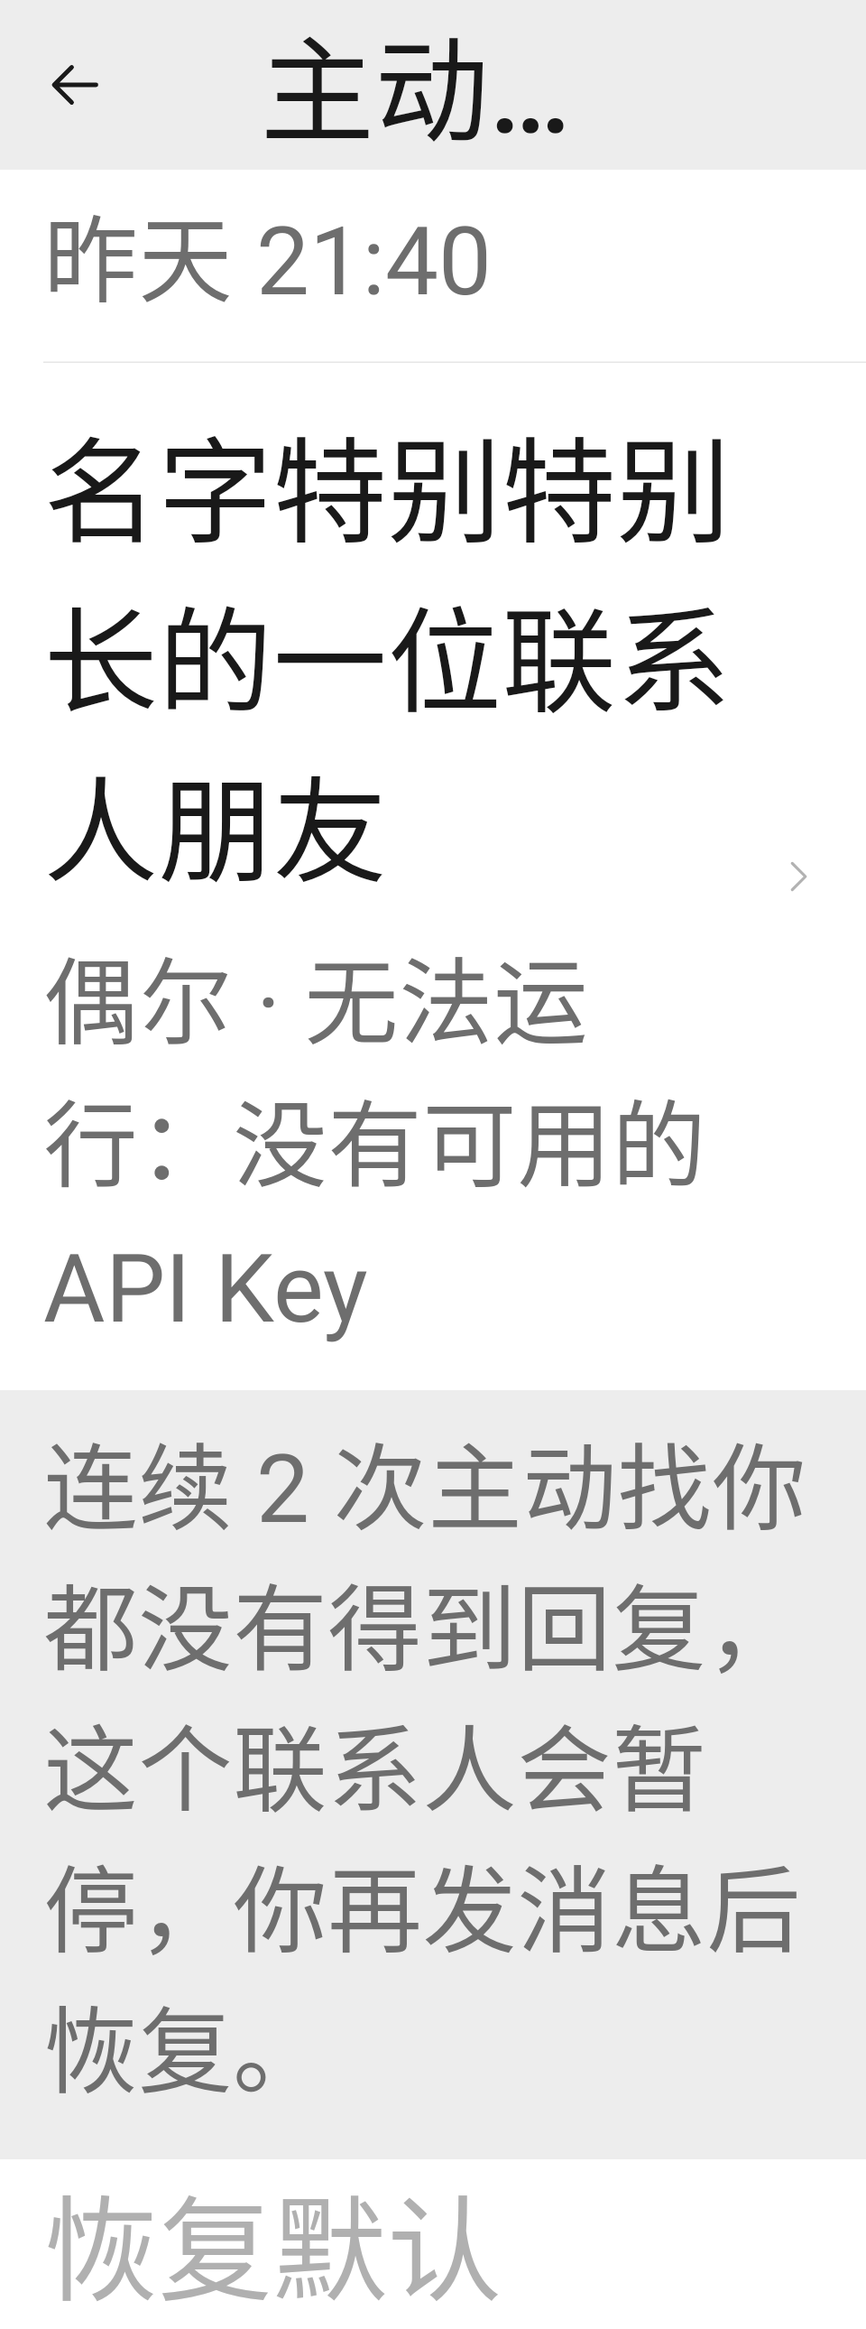
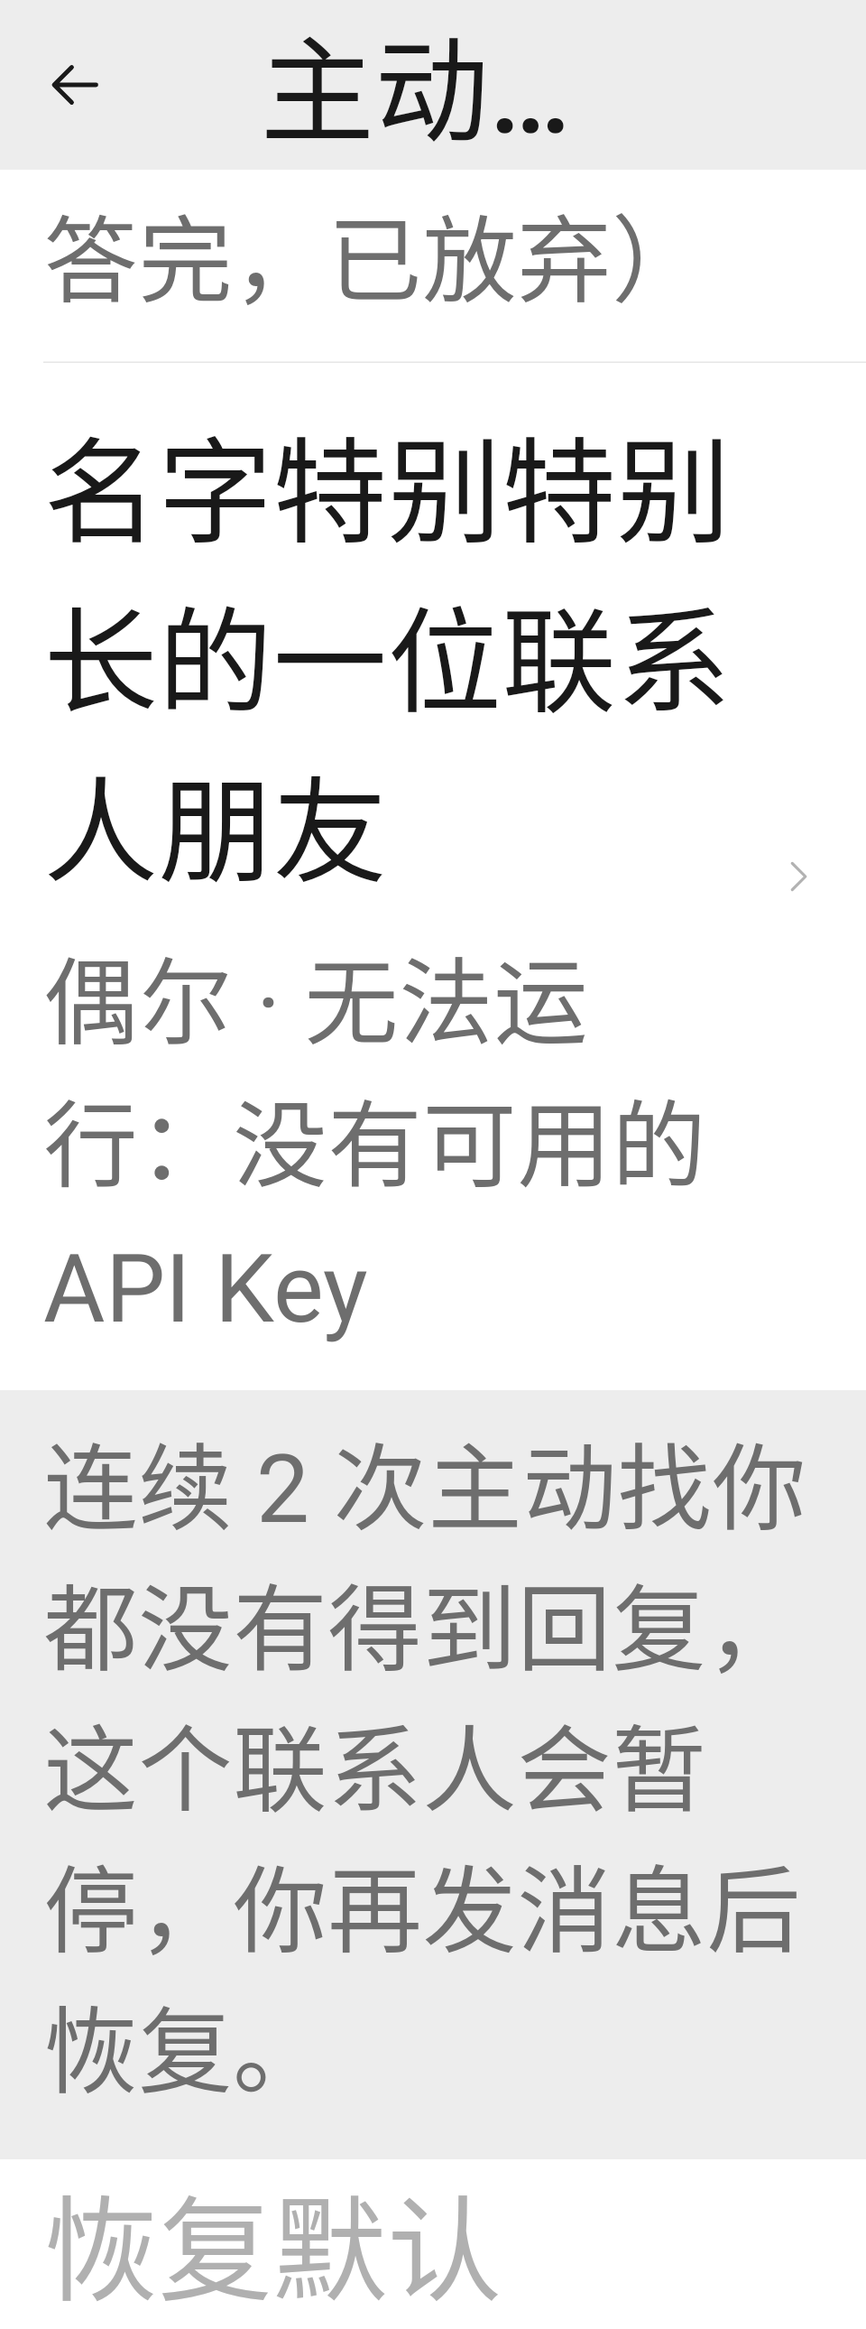
fix(proactive): 主动请求最多等 4 分钟（原 90 秒，带思考的模型答不完），状态页显示上次请求的结果
- 一次检查里过了 4 分钟不再发起新请求，剩下的留到下次
- 结果（已发出、模型决定不发、失败、超时、作废）只存本机，不随备份
- 修正一个混用真实时间、过了 2026-11-11 07:00 就失败的旧测试

Changed region(s): [[0.375, 0.093, 0.75, 0.155], [0.0312, 0.093, 0.3438, 0.155]]

diff --git a/app/src/main/java/isomeria/aichat/data/reply/ProactiveEngine.kt b/app/src/main/java/isomeria/aichat/data/reply/ProactiveEngine.kt
@@ -23,6 +23,8 @@ import isomeria.aichat.data.db.MessageStatus
 import isomeria.aichat.data.db.ProactiveReminder
 import isomeria.aichat.data.db.ProactiveState
 import isomeria.aichat.data.db.UsagePurpose
+import isomeria.aichat.core.ProactiveResult
+import isomeria.aichat.core.ProactiveResultLog
 import isomeria.aichat.data.llm.ChatEvent
 import isomeria.aichat.data.llm.LlmError
 import isomeria.aichat.data.llm.LlmException
@@ -126,6 +128,7 @@ class ProactiveEngine @Inject constructor(
     private val reminders: ProactiveReminders,
     private val labels: ProactiveLabels,
     private val zone: Provider<ZoneId>,
+    private val results: ProactiveResultLog = ProactiveResultLog.NONE,
 ) {
     private val contacts get() = db.contactDao()
     private val conversations get() = db.conversationDao()
@@ -157,6 +160,8 @@ class ProactiveEngine @Inject constructor(
             return ProactiveRun()
         }
         val now = clock.now()
+        // 一次检查的时间有限（系统给后台任务约 10 分钟）：过了这个时间不再发起新的请求，剩下的留到下次检查
+        val deadline = now + RUN_BUDGET_MILLIS
         val lastRunAt = proactive.state()?.lastRunAt ?: 0L
         val sinceLastCheck = if (lastRunAt <= 0L) ProactivePolicy.CHECK_INTERVAL_MILLIS else (now - lastRunAt).coerceAtLeast(0)
         val attempts = mutableListOf<Pair<Long, ProactiveAttempt>>()
@@ -170,6 +175,7 @@ class ProactiveEngine @Inject constructor(
             }
             // 同一个联系人一次检查只发一个约定，其余留到下次
             if (!reminded.add(contact.id)) continue
+            if (clock.now() >= deadline) break
             val attempt = attempt(contact, reminder)
             attempts += contact.id to attempt
             // 被挡住的（正在等回复、今天次数用完、没配 Key）留到下次检查，过了宽限期再丢；发起过请求的不论结果都不重试
@@ -180,7 +186,7 @@ class ProactiveEngine @Inject constructor(
             val hour = Instant.ofEpochMilli(now).atZone(zone.get()).hour
             var calls = 0
             for (contact in enabled) {
-                if (calls >= MAX_CALLS_PER_RUN) break
+                if (calls >= MAX_CALLS_PER_RUN || clock.now() >= deadline) break
                 if (contact.id in reminded) continue
                 if (!force) {
                     val idle = now - lastInteraction(contact)
@@ -325,15 +331,18 @@ class ProactiveEngine @Inject constructor(
             }
         } catch (_: TimeoutCancellationException) {
             debugLog("proactive failed: timeout")
+            results.record(contactId, startedAt, ProactiveResult.TIMED_OUT)
             return ProactiveAttempt(ProactiveOutcome.FAILED)
         } catch (e: LlmException) {
             debugLog("proactive failed: ${e.error} http=${e.httpCode}")
+            results.record(contactId, startedAt, ProactiveResult.FAILED)
             return ProactiveAttempt(ProactiveOutcome.FAILED)
         } catch (e: CancellationException) {
             throw e
         } catch (e: Exception) {
             // 不记录异常内容
             debugLog("proactive failed unexpectedly: ${e.javaClass.simpleName}")
+            results.record(contactId, startedAt, ProactiveResult.FAILED)
             return ProactiveAttempt(ProactiveOutcome.FAILED)
         }
 
@@ -344,6 +353,7 @@ class ProactiveEngine @Inject constructor(
         val (text, parsed) = reminders.extract(contact, raw, finishedAt)
         if (ProactivePolicy.isSkip(raw) || text.isBlank()) {
             usage.record(contactId, UsagePurpose.PROACTIVE, usedPrompt, usedCompletion)
+            results.record(contactId, startedAt, ProactiveResult.SKIPPED)
             return ProactiveAttempt(ProactiveOutcome.SKIPPED)
         }
         val rows = ReplyComposer.rows(
@@ -375,7 +385,11 @@ class ProactiveEngine @Inject constructor(
                 true
             }
         }
-        if (!sent) return ProactiveAttempt(ProactiveOutcome.DISCARDED)
+        if (!sent) {
+            results.record(contactId, startedAt, ProactiveResult.DISCARDED)
+            return ProactiveAttempt(ProactiveOutcome.DISCARDED)
+        }
+        results.record(contactId, startedAt, ProactiveResult.SENT)
         // 预览、未读、通知和记忆都在送达时处理
         queue.enqueueDelivery(contactId)
         return ProactiveAttempt(ProactiveOutcome.SENT)
@@ -416,7 +430,12 @@ class ProactiveEngine @Inject constructor(
         /** 一次检查最多为几个联系人调用模型：周期任务的运行时间有限，也避免一醒来就连发 */
         const val MAX_CALLS_PER_RUN = 3
 
-        /** 后台任务随时可能被系统冻结或停止，不等太久；超时算失败，不重试 */
-        const val REQUEST_TIMEOUT_MILLIS = 90_000L
+        /**
+         * 带思考的模型一次回复常常要一分多钟（真机实测 90 秒不够，两次主动请求都超时），所以等到 4 分钟；
+         * 超时算失败，不重试。系统给后台任务约 10 分钟：一次检查里过了 [RUN_BUDGET_MILLIS] 就不再发起新请求，
+         * 最坏情况是两个请求各等满 4 分钟
+         */
+        const val REQUEST_TIMEOUT_MILLIS = 240_000L
+        const val RUN_BUDGET_MILLIS = 240_000L
     }
 }

diff --git a/app/src/test/java/isomeria/aichat/data/reply/ProactiveEngineTest.kt b/app/src/test/java/isomeria/aichat/data/reply/ProactiveEngineTest.kt
@@ -27,6 +27,7 @@ import isomeria.aichat.data.llm.LlmException
 import isomeria.aichat.data.repo.ChatMessageActions
 import isomeria.aichat.data.repo.ChatPaging
 import isomeria.aichat.data.repo.ChatRepository
+import isomeria.aichat.core.ProactiveResult
 import isomeria.aichat.data.repo.FileStorage
 import kotlinx.coroutines.flow.first
 import kotlinx.coroutines.runBlocking
@@ -245,6 +246,70 @@ class ProactiveEngineTest {
         assertTrue(rows().none { it.status == MessageStatus.FAILED })
     }
 
+    @Test
+    fun aRequestThatTimesOut_countsAsAFailure_andIsRecordedAsATimeout() = runBlocking {
+        // 服务商一直不答：和真实请求一样在流里抛出超时
+        h.provider.beforeReply = { kotlinx.coroutines.withTimeout(1) { kotlinx.coroutines.delay(60_000) } }
+        assertEquals(ProactiveAttempt(ProactiveOutcome.FAILED), force())
+        assertEquals(1, requests.size)
+        assertEquals(1, used())
+        assertTrue(proactiveRows().isEmpty())
+        assertEquals(start to ProactiveResult.TIMED_OUT, h.results[id])
+    }
+
+    @Test
+    fun everyRequest_recordsItsResult_forTheStatusPage() = runBlocking {
+        assertNull(h.results[id])
+        assertEquals(ProactiveOutcome.SENT, force()!!.outcome)
+        assertEquals(start to ProactiveResult.SENT, h.results[id])
+        assertEquals("结果按请求开始的时间和会话对上", start, conversation().lastProactiveAt)
+
+        deliver()
+        h.now += hour
+        h.provider.reply = "[SKIP]"
+        assertEquals(ProactiveOutcome.SKIPPED, force()!!.outcome)
+        assertEquals(h.now to ProactiveResult.SKIPPED, h.results[id])
+
+        h.now += hour
+        h.provider.failure = LlmException(LlmError.SERVER, 500)
+        assertEquals(ProactiveOutcome.FAILED, force()!!.outcome)
+        assertEquals(h.now to ProactiveResult.FAILED, h.results[id])
+
+        // 请求期间用户发了消息：作废
+        h.now += hour
+        h.provider.failure = null
+        h.provider.reply = "在吗"
+        h.provider.beforeReply = { db.messageDao().insert(text(Role.USER, "我先说", h.now + 1)) }
+        assertEquals(ProactiveOutcome.DISCARDED, force()!!.outcome)
+        val discardedAt = h.now
+        assertEquals(discardedAt to ProactiveResult.DISCARDED, h.results[id])
+        assertEquals(discardedAt, conversation().lastProactiveAt)
+
+        // 被挡住的不发请求，也不改上一次的结果
+        h.provider.beforeReply = null
+        h.proactiveSettings = h.proactiveSettings.copy(dailyLimit = 4)
+        assertEquals(ProactiveOutcome.BLOCKED, force()!!.outcome)
+        assertEquals(discardedAt to ProactiveResult.DISCARDED, h.results[id])
+    }
+
+    @Test
+    fun aSlowRequest_usesUpTheRunBudget_soTheNextContactWaitsForTheNextCheck() = runBlocking {
+        db.contactDao().insert(
+            Contact(id = 2, name = "阿青", avatarColor = 0, providerId = 1, model = "m", proactiveEnabled = true, createdAt = 2, updatedAt = start - 10 * hour),
+        )
+        // 第一个请求用了 4 分钟多（带思考的模型）
+        h.provider.beforeReply = { h.now += 250_000 }
+        val run = h.proactive.run(force = true)
+        assertEquals("只为一个联系人发了请求", 1, requests.size)
+        assertEquals(1, run.attempts.size)
+        assertEquals(1, used())
+        // 下一次检查轮到另一个
+        h.provider.beforeReply = null
+        h.now += 15 * 60_000
+        val next = h.proactive.run(force = true)
+        assertTrue(next.attempts.any { it.second.outcome == ProactiveOutcome.SENT })
+    }
+
     // ---------- 不调用模型就跳过 ----------
 
     @Test
@@ -442,14 +507,17 @@ class ProactiveEngineTest {
 
     @Test
     fun ordinaryReply_withMarker_hidesItAndRecordsTheTime_onlyWhenProactiveIsOn() = runBlocking {
-        h.now = at(10, 22)
-        chat.sendText(id, "明早7点叫我")
-        h.provider.reply = "好的\n[提醒 2026-11-11 07:00 叫他起床]"
+        // sendText 用真实时间记用户消息，「等你说完再回」会把假时钟推到真实时间之后：
+        // 约定的时间按真实日期往后取，测试才不会在某一天之后开始失败
+        h.now = System.currentTimeMillis()
+        val due = java.time.LocalDate.now(zone).plusDays(2).atTime(7, 0)
+        chat.sendText(id, "后天早上7点叫我")
+        h.provider.reply = "好的\n[提醒 $due 叫他起床]".replace('T', ' ')
         h.engine.run(id)
         assertEquals(listOf("好的"), rows().filter { it.status == MessageStatus.PENDING }.map { it.content })
-        assertTrue(rows().none { "提醒 2026" in it.content })
+        assertTrue(rows().none { "提醒 20" in it.content })
         val reminder = db.proactiveDao().remindersOf(id).single()
-        assertEquals(at(11, 7), reminder.dueAt)
+        assertEquals(due.atZone(zone).toInstant().toEpochMilli(), reminder.dueAt)
         assertEquals("叫他起床", reminder.note)
         assertEquals("记下约定后重新排任务", 1, h.control.syncs)
         assertTrue(requests.last().messages.first().plainText().contains(ReplyHarness.REMINDER_HINT))

diff --git a/app/src/main/java/isomeria/aichat/feature/proactive/ProactiveScreen.kt b/app/src/main/java/isomeria/aichat/feature/proactive/ProactiveScreen.kt
@@ -74,6 +74,8 @@ data class ProactiveContactStatus(
     val lastAttempt: String? = null,
     /** 最近的一个约定提醒，已排好版 */
     val nextReminder: String? = null,
+    /** [lastAttempt] 那一次请求的结果；没有记录时为 null */
+    val lastResult: isomeria.aichat.core.ProactiveResult? = null,
 )
 
 data class ProactiveScreenState(
@@ -125,12 +127,14 @@ class ProactiveViewModel @Inject constructor(
             scheduled = scheduled,
             canNotify = notify && notifier.canNotify(),
             contacts = contacts.map { contact ->
+                val lastAt = db.conversationDao().get(contact.id)?.lastProactiveAt?.takeIf { it > 0 }
                 ProactiveContactStatus(
                     id = contact.id,
                     name = contact.name,
                     frequency = contact.proactiveFrequency,
                     block = engine.blockNow(contact),
-                    lastAttempt = db.conversationDao().get(contact.id)?.lastProactiveAt?.takeIf { it > 0 }?.let { formatter.forChat(it, now) },
+                    lastAttempt = lastAt?.let { formatter.forChat(it, now) },
+                    lastResult = settings.last(contact.id)?.takeIf { it.first == lastAt }?.second,
                     nextReminder = reminders.firstOrNull { it.contactId == contact.id }?.let { formatter.forChat(it.dueAt, now) },
                 )
             },
@@ -313,7 +317,18 @@ private fun blockLabel(block: ProactiveBlock?): String = when (block) {
 @Composable
 private fun contactDetail(contact: ProactiveContactStatus): String {
     val lines = mutableListOf(stringResource(R.string.proactive_contact_line, frequencyLabel(contact.frequency), blockLabel(contact.block)))
-    contact.lastAttempt?.let { lines += stringResource(R.string.proactive_contact_last, it) }
+    contact.lastAttempt?.let { at ->
+        val result = when (contact.lastResult) {
+            isomeria.aichat.core.ProactiveResult.SENT -> R.string.proactive_result_sent
+            isomeria.aichat.core.ProactiveResult.SKIPPED -> R.string.proactive_result_skipped
+            isomeria.aichat.core.ProactiveResult.FAILED -> R.string.proactive_result_failed
+            isomeria.aichat.core.ProactiveResult.TIMED_OUT -> R.string.proactive_result_timed_out
+            isomeria.aichat.core.ProactiveResult.DISCARDED -> R.string.proactive_result_discarded
+            null -> null
+        }
+        lines += if (result == null) stringResource(R.string.proactive_contact_last, at)
+        else stringResource(R.string.proactive_contact_last_result, at, stringResource(result))
+    }
     contact.nextReminder?.let { lines += stringResource(R.string.proactive_contact_reminder, it) }
     return lines.joinToString("\n")
 }

diff --git a/app/src/main/java/isomeria/aichat/data/settings/SettingsStore.kt b/app/src/main/java/isomeria/aichat/data/settings/SettingsStore.kt
@@ -30,7 +30,7 @@ enum class FontSize(val scale: Float) {
  */
 @Singleton
 class SettingsStore @Inject constructor(@ApplicationContext context: Context) :
-    UpdatePrefs, NicknameSource, ReplyPreferencesSource, ProactiveSettingsSource {
+    UpdatePrefs, NicknameSource, ReplyPreferencesSource, ProactiveSettingsSource, isomeria.aichat.core.ProactiveResultLog {
     private val mmkv: MMKV
 
     init {
@@ -114,6 +114,17 @@ class SettingsStore @Inject constructor(@ApplicationContext context: Context) :
     }
 
     /** 第一次开启主动聊天时的说明（会自动消耗 API 额度）是否已经看过；和设备有关，不随备份 */
+    override fun record(contactId: Long, at: Long, result: isomeria.aichat.core.ProactiveResult) {
+        mmkv.encode(KEY_PROACTIVE_RESULT + contactId, "$at:${result.name}")
+    }
+
+    override fun last(contactId: Long): Pair<Long, isomeria.aichat.core.ProactiveResult>? {
+        val raw = mmkv.decodeString(KEY_PROACTIVE_RESULT + contactId) ?: return null
+        val at = raw.substringBefore(':').toLongOrNull() ?: return null
+        val result = isomeria.aichat.core.ProactiveResult.entries.firstOrNull { it.name == raw.substringAfter(':') } ?: return null
+        return at to result
+    }
+
     var proactiveIntroShown: Boolean
         get() = mmkv.decodeBool(KEY_PROACTIVE_INTRO, false)
         set(value) {
@@ -221,5 +232,6 @@ class SettingsStore @Inject constructor(@ApplicationContext context: Context) :
         const val KEY_PROACTIVE_QUIET_END = "proactive_quiet_end"
         const val KEY_PROACTIVE_LIMIT = "proactive_daily_limit"
         const val KEY_PROACTIVE_INTRO = "proactive_intro_shown"
+        const val KEY_PROACTIVE_RESULT = "proactive_result_"
     }
 }

diff --git a/app/src/test/java/isomeria/aichat/feature/proactive/ProactiveUiTest.kt b/app/src/test/java/isomeria/aichat/feature/proactive/ProactiveUiTest.kt
@@ -60,7 +60,7 @@ class ProactiveUiTest {
 
     private val contacts = listOf(
         ProactiveContactStatus(1, "小雨", ProactiveFrequency.MEDIUM, null, "今天 12:05", "明天 07:00"),
-        ProactiveContactStatus(2, "阿哲", ProactiveFrequency.HIGH, ProactiveBlock.PAUSED, "昨天 21:40"),
+        ProactiveContactStatus(2, "阿哲", ProactiveFrequency.HIGH, ProactiveBlock.PAUSED, "昨天 21:40", lastResult = isomeria.aichat.core.ProactiveResult.TIMED_OUT),
         ProactiveContactStatus(3, "小满", ProactiveFrequency.LOW, ProactiveBlock.NO_KEY),
     )
 
@@ -83,7 +83,7 @@ class ProactiveUiTest {
         // 读屏读到的就是状态小字
         val root = compose.onNodeWithText("阿哲")
         root.assertExists()
-        compose.onNodeWithText("频繁 · 已暂停：连续 2 次没有回复，你发消息后恢复\n上次主动请求：昨天 21:40").assertExists()
+        compose.onNodeWithText("频繁 · 已暂停：连续 2 次没有回复，你发消息后恢复\n上次主动请求：昨天 21:40（模型 4 分钟内没有答完，已放弃）").assertExists()
         compose.onNodeWithText("适中 · 正常\n上次主动请求：今天 12:05\n约好的提醒：明天 07:00").assertExists()
         compose.onNodeWithText("偶尔 · 无法运行：没有可用的 API Key").assertExists()
     }

diff --git a/app/src/main/java/isomeria/aichat/core/ProactiveSettings.kt b/app/src/main/java/isomeria/aichat/core/ProactiveSettings.kt
@@ -39,6 +39,27 @@ data class ProactiveSettings(
     }
 }
 
+/** 一次主动请求的结果，显示在「我 → 主动聊天」里，说明为什么没有消息。 */
+enum class ProactiveResult { SENT, SKIPPED, FAILED, TIMED_OUT, DISCARDED }
+
+/**
+ * 每个联系人最近一次主动请求的结果。只属于这台手机，不随备份；按请求开始的时间和
+ * 会话上的 lastProactiveAt 对上才显示，所以恢复数据或清空聊天后不会显示旧结果。
+ */
+interface ProactiveResultLog {
+    fun record(contactId: Long, at: Long, result: ProactiveResult)
+
+    /** 请求开始的时间和结果；没有记录时为 null */
+    fun last(contactId: Long): Pair<Long, ProactiveResult>?
+
+    companion object {
+        val NONE = object : ProactiveResultLog {
+            override fun record(contactId: Long, at: Long, result: ProactiveResult) = Unit
+            override fun last(contactId: Long): Pair<Long, ProactiveResult>? = null
+        }
+    }
+}
+
 /** 读取当前的主动聊天设置。单元测试里换成固定值（MMKV 需要原生库）。 */
 fun interface ProactiveSettingsSource {
     fun proactiveSettings(): ProactiveSettings

diff --git a/app/src/test/java/isomeria/aichat/screenshot/ScreenshotTest.kt b/app/src/test/java/isomeria/aichat/screenshot/ScreenshotTest.kt
@@ -744,8 +744,8 @@ class ScreenshotTest {
     // ---------- 0.6.0 主动聊天 ----------
 
     private val proactiveContacts = listOf(
-        isomeria.aichat.feature.proactive.ProactiveContactStatus(1, "小雨", ProactiveFrequency.MEDIUM, null, "今天 12:05", "明天 07:00"),
-        isomeria.aichat.feature.proactive.ProactiveContactStatus(2, "阿哲", ProactiveFrequency.HIGH, isomeria.aichat.core.ProactiveBlock.PAUSED, "昨天 21:40"),
+        isomeria.aichat.feature.proactive.ProactiveContactStatus(1, "小雨", ProactiveFrequency.MEDIUM, null, "今天 12:05", "明天 07:00", isomeria.aichat.core.ProactiveResult.SENT),
+        isomeria.aichat.feature.proactive.ProactiveContactStatus(2, "阿哲", ProactiveFrequency.HIGH, isomeria.aichat.core.ProactiveBlock.PAUSED, "昨天 21:40", lastResult = isomeria.aichat.core.ProactiveResult.TIMED_OUT),
         isomeria.aichat.feature.proactive.ProactiveContactStatus(3, "名字特别特别长的一位联系人朋友", ProactiveFrequency.LOW, isomeria.aichat.core.ProactiveBlock.NO_KEY),
     )
     private val proactiveState = isomeria.aichat.feature.proactive.ProactiveScreenState(

diff --git a/app/src/test/java/isomeria/aichat/data/reply/ReplyRequestGoldenTest.kt b/app/src/test/java/isomeria/aichat/data/reply/ReplyRequestGoldenTest.kt
@@ -306,6 +306,16 @@ internal class ReplyHarness(context: android.content.Context, val db: AppDatabas
 
     val reminders = ProactiveReminders(db, control, { zone }, proactiveLabels)
 
+    /** 每个联系人最近一次主动请求的结果（真实实现存在 MMKV 里） */
+    val results = mutableMapOf<Long, Pair<Long, isomeria.aichat.core.ProactiveResult>>()
+    private val resultLog = object : isomeria.aichat.core.ProactiveResultLog {
+        override fun record(contactId: Long, at: Long, result: isomeria.aichat.core.ProactiveResult) {
+            results[contactId] = at to result
+        }
+
+        override fun last(contactId: Long) = results[contactId]
+    }
+
     val proactive by lazy {
         ProactiveEngine(
             db = db,
@@ -324,6 +334,7 @@ internal class ReplyHarness(context: android.content.Context, val db: AppDatabas
             reminders = reminders,
             labels = proactiveLabels,
             zone = { zone },
+            results = resultLog,
         )
     }
 

diff --git a/app/src/main/java/isomeria/aichat/di/AppModule.kt b/app/src/main/java/isomeria/aichat/di/AppModule.kt
@@ -208,6 +208,8 @@ abstract class BindingsModule {
 
     @Binds abstract fun proactiveSettingsSource(impl: SettingsStore): isomeria.aichat.core.ProactiveSettingsSource
 
+    @Binds abstract fun proactiveResultLog(impl: SettingsStore): isomeria.aichat.core.ProactiveResultLog
+
     @Binds abstract fun replyControl(impl: ReplyScheduler): ReplyControl
 
     @Binds abstract fun proactiveControl(impl: isomeria.aichat.data.reply.ProactiveScheduler): isomeria.aichat.data.reply.ProactiveControl
